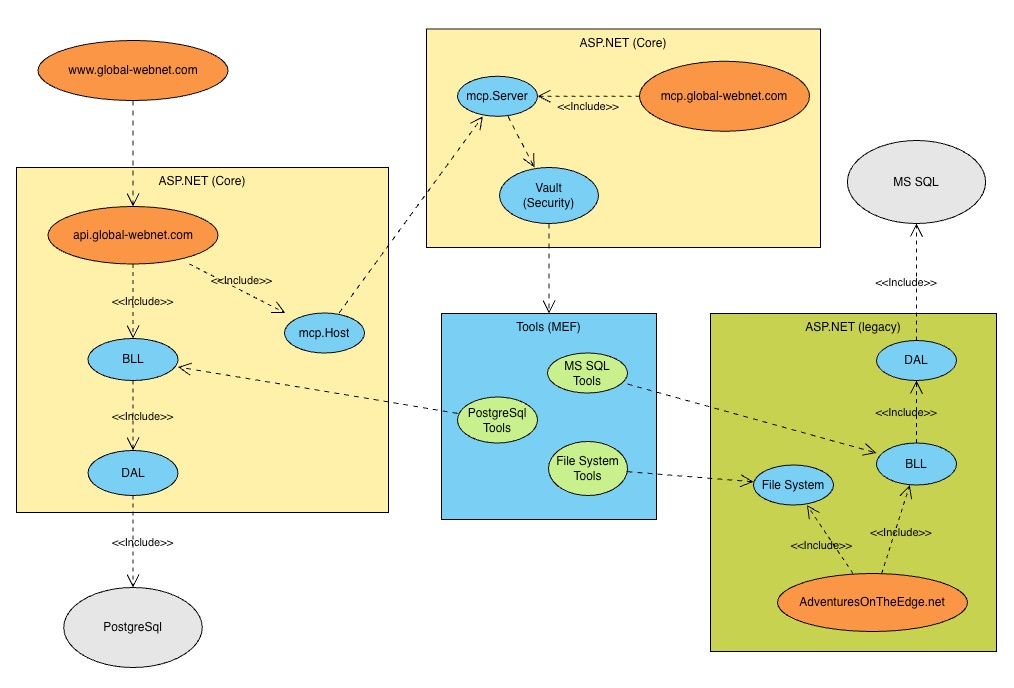
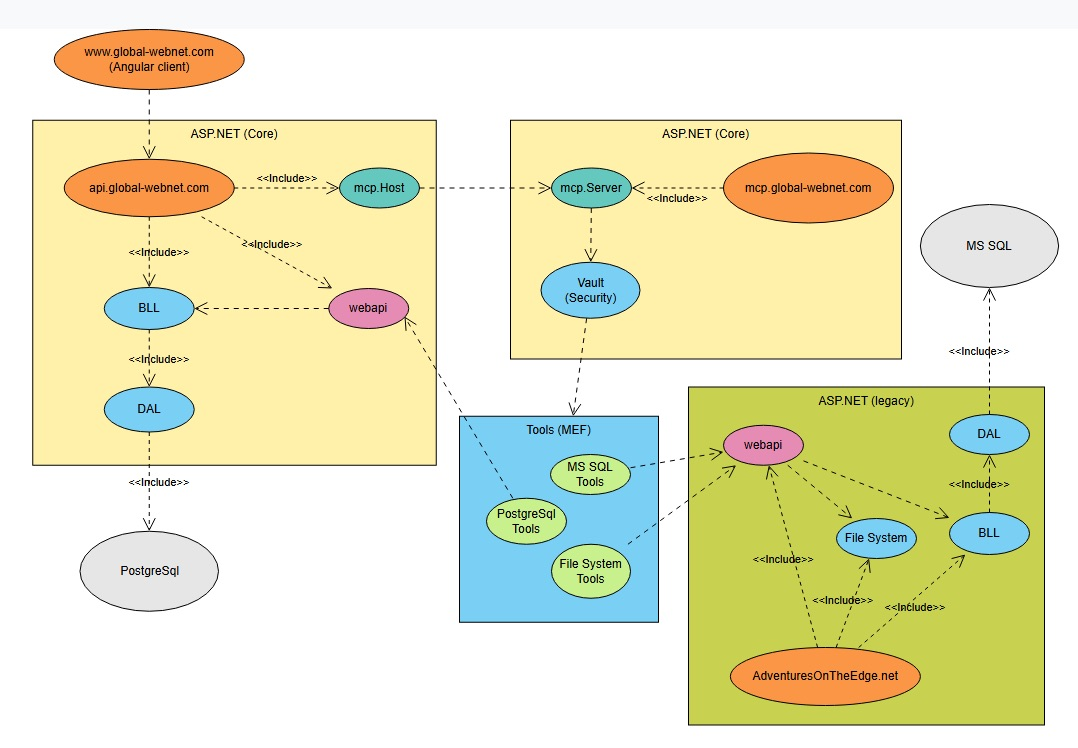
README.md file update with current and future vision.

diff --git a/test/AiBlogResearch.WebApi.Tests/Controllers/AuthControllerTests.cs b/test/AiBlogResearch.WebApi.Tests/Controllers/AuthControllerTests.cs
@@ -1,72 +1,70 @@
-using Adventures.Security;
+using Adventures.Identity;
 using AiBlogResearch.WebApi.Controllers;
 using Microsoft.AspNetCore.Mvc;
 using Microsoft.Extensions.Configuration;
-using Microsoft.Extensions.Options;
 using Xunit;
 
 namespace AiBlogResearch.WebApi.Tests.Controllers;
 
 public class AuthControllerTests
 {
-    private static IConfiguration BuildConfiguration(string? userName = "demo", string? password = "ChangeMe123!") =>
+    private static IConfiguration BuildConfiguration(string? tenant = "global-webnet.com") =>
         new ConfigurationBuilder()
             .AddInMemoryCollection(new Dictionary<string, string?>
             {
-                ["DemoUser:UserName"] = userName,
-                ["DemoUser:Password"] = password,
+                ["Auth:Tenant"] = tenant,
             })
             .Build();
 
-    private static IJwtTokenService BuildTokenService() =>
-        new JwtTokenService(Options.Create(new JwtTokenOptions
-        {
-            Issuer = "TestIssuer",
-            Audience = "TestAudience",
-            SigningKey = "0123456789abcdef0123456789abcdef",
-            AccessTokenLifetime = TimeSpan.FromMinutes(30),
-        }));
-
     [Fact]
-    public void Token_ReturnsOkWithAccessToken_WhenCredentialsAreValid()
+    public async Task Token_ReturnsOkWithAccessToken_WhenCredentialsAreValid()
     {
-        var controller = new AuthController(BuildTokenService(), BuildConfiguration());
+        var expiresAt = DateTimeOffset.UtcNow.AddMinutes(30);
+        var accountService = new FakeUserAccountService(LoginResult.Success("fake-token", expiresAt, mustChangePassword: true));
+        var controller = new AuthController(accountService, BuildConfiguration());
 
-        var result = controller.Token(new TokenRequest("demo", "ChangeMe123!"));
+        var result = await controller.Token(new TokenRequest("Admin", "Password"));
 
         var okResult = Assert.IsType<OkObjectResult>(result.Result);
         var tokenResponse = Assert.IsType<TokenResponse>(okResult.Value);
-        Assert.False(string.IsNullOrWhiteSpace(tokenResponse.AccessToken));
-        Assert.True(tokenResponse.ExpiresAtUtc > DateTimeOffset.UtcNow);
+        Assert.Equal("fake-token", tokenResponse.AccessToken);
+        Assert.Equal(expiresAt, tokenResponse.ExpiresAtUtc);
+        Assert.True(tokenResponse.MustChangePassword);
+        Assert.Equal("global-webnet.com", accountService.LastTenant);
+        Assert.Equal("Admin", accountService.LastUsername);
+        Assert.Equal("Password", accountService.LastPassword);
     }
 
     [Theory]
-    [InlineData("demo", "WrongPassword")]
-    [InlineData("wrong-user", "ChangeMe123!")]
+    [InlineData("wrong-user", "Password")]
+    [InlineData("Admin", "WrongPassword")]
     [InlineData("", "")]
-    public void Token_ReturnsUnauthorized_WhenCredentialsAreInvalid(string userName, string password)
+    public async Task Token_ReturnsUnauthorized_WhenCredentialsAreInvalid(string userName, string password)
     {
-        var controller = new AuthController(BuildTokenService(), BuildConfiguration());
+        var accountService = new FakeUserAccountService(LoginResult.Failure(LoginFailureReason.InvalidCredentials));
+        var controller = new AuthController(accountService, BuildConfiguration());
 
-        var result = controller.Token(new TokenRequest(userName, password));
+        var result = await controller.Token(new TokenRequest(userName, password));
 
         Assert.IsType<UnauthorizedResult>(result.Result);
     }
 
     [Fact]
-    public void Token_ReturnsUnauthorized_WhenDemoUserIsNotConfigured()
+    public async Task Token_UsesConfiguredTenant_DefaultingToGlobalWebnetWhenUnset()
     {
-        var controller = new AuthController(BuildTokenService(), BuildConfiguration(userName: null, password: null));
+        var accountService = new FakeUserAccountService(LoginResult.Failure(LoginFailureReason.InvalidCredentials));
+        var controller = new AuthController(accountService, BuildConfiguration(tenant: null));
 
-        var result = controller.Token(new TokenRequest("demo", "ChangeMe123!"));
+        await controller.Token(new TokenRequest("Admin", "Password"));
 
-        Assert.IsType<UnauthorizedResult>(result.Result);
+        Assert.Equal("global-webnet.com", accountService.LastTenant);
     }
 
     [Fact]
     public void WhoAmI_ReturnsUnknown_WhenNoAuthenticatedUserIsSet()
     {
-        var controller = new AuthController(BuildTokenService(), BuildConfiguration());
+        var accountService = new FakeUserAccountService(LoginResult.Failure(LoginFailureReason.InvalidCredentials));
+        var controller = new AuthController(accountService, BuildConfiguration());
         controller.ControllerContext = new ControllerContext
         {
             HttpContext = new Microsoft.AspNetCore.Http.DefaultHttpContext(),
@@ -76,5 +74,22 @@ public class AuthControllerTests
 
         var okResult = Assert.IsType<OkObjectResult>(result.Result);
         Assert.Equal("unknown", okResult.Value);
+    }
+
+    private sealed class FakeUserAccountService(LoginResult result) : IUserAccountService
+    {
+        public string? LastTenant { get; private set; }
+
+        public string? LastUsername { get; private set; }
+
+        public string? LastPassword { get; private set; }
+
+        public Task<LoginResult> LoginAsync(string tenant, string username, string password, CancellationToken cancellationToken = default)
+        {
+            LastTenant = tenant;
+            LastUsername = username;
+            LastPassword = password;
+            return Task.FromResult(result);
+        }
     }
 }

diff --git a/src/AiBlogResearch.WebApi/Controllers/AuthController.cs b/src/AiBlogResearch.WebApi/Controllers/AuthController.cs
@@ -1,5 +1,4 @@
-using System.Security.Claims;
-using Adventures.Security;
+using Adventures.Identity;
 using Microsoft.AspNetCore.Authorization;
 using Microsoft.AspNetCore.Mvc;
 
@@ -7,34 +6,36 @@ namespace AiBlogResearch.WebApi.Controllers;
 
 public sealed record TokenRequest(string UserName, string Password);
 
-public sealed record TokenResponse(string AccessToken, DateTimeOffset ExpiresAtUtc);
+public sealed record TokenResponse(string AccessToken, DateTimeOffset ExpiresAtUtc, bool MustChangePassword);
 
 /// <summary>
-/// Issues JWTs after validating credentials.
-/// NOTE: credential validation below is a placeholder (configuration-backed demo user) and must be
-/// replaced with a real user store (e.g. ASP.NET Identity, a database, etc.) before production use.
+/// Issues JWTs after validating credentials against the real user store (Adventures.Data +
+/// Adventures.Identity), replacing the config-seeded demo-user placeholder this controller used
+/// to have - see docs/SESSION_HANDOFF.md's "Adventures.Identity" entries for why that replacement
+/// was deliberately deferred until the underlying login path was verified end-to-end first.
 /// </summary>
 [ApiController]
 [Route("api/auth")]
-public sealed class AuthController(IJwtTokenService tokenService, IConfiguration configuration) : ControllerBase
+public sealed class AuthController(IUserAccountService accountService, IConfiguration configuration) : ControllerBase
 {
+    /// <summary>
+    /// Single-tenant today (see <c>Auth:Tenant</c> in configuration, defaulting to
+    /// "global-webnet.com") - <see cref="IUserAccountService.LoginAsync"/> is tenant-scoped for
+    /// when this app supports more than one, but nothing yet needs the client to supply it.
+    /// </summary>
+    private string Tenant => configuration["Auth:Tenant"] ?? "global-webnet.com";
+
     [HttpPost("token")]
     [AllowAnonymous]
-    public ActionResult<TokenResponse> Token([FromBody] TokenRequest request)
+    public async Task<ActionResult<TokenResponse>> Token([FromBody] TokenRequest request)
     {
-        var demoUserName = configuration["DemoUser:UserName"];
-        var demoPassword = configuration["DemoUser:Password"];
-
-        if (string.IsNullOrEmpty(demoUserName) || string.IsNullOrEmpty(demoPassword)
-            || request.UserName != demoUserName || request.Password != demoPassword)
+        var result = await accountService.LoginAsync(Tenant, request.UserName, request.Password);
+        if (!result.Succeeded)
         {
             return Unauthorized();
         }
 
-        var claims = new[] { new Claim(ClaimTypes.Name, request.UserName) };
-        var issued = tokenService.IssueToken(request.UserName, claims);
-
-        return Ok(new TokenResponse(issued.AccessToken, issued.ExpiresAtUtc));
+        return Ok(new TokenResponse(result.AccessToken!, result.ExpiresAtUtc!.Value, result.MustChangePassword));
     }
 
     /// <summary>Sample protected endpoint to prove JWT validation works end to end.</summary>

diff --git a/docs/SESSION_HANDOFF.md b/docs/SESSION_HANDOFF.md
@@ -4,6 +4,26 @@ Status as of 2026-09-19. Read this first in any new session before touching arch
 
 **Current branch: `main`** — the `rebuild/dotnet-angular-scaffold` branch was fast-forward-merged and pushed to `origin/main` on 2026-09-15. All work described below (scaffold, deployment, CI/CD, developer guide) is live on `main`.
 
+## RESOLVED (2026-09-21, Windows session): real login wired into `AuthController` — the last piece of the `Adventures.Identity` plan first raised 2026-09-19
+
+**Closes the item this doc has carried as "deliberately not wired into `AuthController` yet" since `Adventures.Identity` was published.** A real tenant-admin user (`Admin`/`Password`, `tenant = 'global-webnet.com'`, `must_change_password = true`, a real PBKDF2 hash — not the placeholder string in `seed-tenant-admin.sql`) now exists in the dev Postgres database, and `AuthController.Token` calls `IUserAccountService.LoginAsync` instead of comparing against `DemoUser:UserName`/`DemoUser:Password` config values. Verified for real against the live dev database (not just unit tests): correct credentials return a genuine signed JWT, wrong password/unknown username both `401`, `/api/auth/whoami` resolves the real username from the token. 109/109 tests passing across the solution. Full detail, including the login sequence diagram, is in [docs/artifacts/2026-09-21-real-login-wired.md](artifacts/2026-09-21-real-login-wired.md) — this entry intentionally doesn't repeat it.
+
+**Explicitly not done:** no forced-password-change flow exists yet, so `MustChangePassword` (now surfaced in the token response) isn't acted on anywhere. `DemoUser:*` user-secrets are unused now but still present locally — harmless, worth deleting next time that file is open.
+
+## Discussion, deliberately parked (2026-09-21, Windows session): BlogEngine.NET/`BlogAI` migration and interim authoring — not scheduled, roughly two years out per the user's own estimate
+
+**This is a captured discussion, not a spec — don't build against it without a fresh conversation first, and don't spend more design time on it until there's an actual near-term trigger (ai-research-blog approaching feature-parity with BlogEngine.NET's own admin, or a concrete need).** Recorded so it doesn't have to be re-derived or re-asked, per this doc's whole reason for existing.
+
+**Two separate things with two different lifecycles, not one tool:**
+1. **An interim live-authoring tool against the user's own `BlogAI`** (create/edit/read against the still-live `AdventuresOnTheEdge.net`, through a new, minimal HTTP endpoint added to `BlogAI` itself — not raw SQL Server access from this codebase, and not an in-process reference to `BlogAI`'s BLL, which would pull in its entire legacy dependency tree). Needed because the user's actual blog stays on `BlogAI` while ai-research-blog matures — this is explicitly temporary and gets removed (or its MEF DLL pulled) once ai-research-blog is past beta.
+2. **A one-way migration feature, shipped as a permanent part of the released product**, for any BlogEngine.NET installation to move to ai-research-blog. Explicitly the last thing built, roughly two years out — not scheduled, not designed beyond the shape below.
+
+**Confirmed: `BlogAI` (the user's fork) uses the standard/core BlogEngine.NET database schema.** Its only deviation is a custom "GwnWiki" extension (see `BlogAI/BlogEngine/BlogEngine.NET/setup/BillKrat-Upgrade.2018.12.30.sql`), which other installations won't have. This means a migration tool built against the *core* schema generalizes to other BlogEngine.NET installs — it doesn't need to special-case the user's own fork. BlogEngine.NET also has some config in XML files, not just SQL; migrating that too was floated as "adventurous... not sure the juice is worth the squeeze" — an explicit maybe-someday, not a commitment.
+
+**Naming convention agreed, for whenever this work starts:** name a Dal after what it actually talks to, not a generic label. The `nquad-end-to-end-poc`'s quad-store family should be renamed `NQuadDalBase<TEntity>`/`GenericNQuadDal<TEntity>`/`UserNQuadDal` (not yet done — see that POC's own `docs/artifacts/`). A legacy-facing Dal talking to `BlogAI`'s new endpoint is not a "MsSqlDal" — it never opens a `SqlConnection` itself, `BlogAI`'s own endpoint does that — so naming it `UserMsSqlDal` would be actively misleading; something like `UserBlogAiDal` was suggested, pending a real name once it's built. `ICrudlDal<TEntity>` (the interface, not `DalBase`/`GenericDal`) is the actual polymorphism boundary between backends — confirmed `User : DynamicEntity` should serve every backend uniformly (one shape, swappable Dal underneath) rather than a different entity class per storage technology, because a single stable shape is easier for both humans and AI-assisted tooling to target.
+
+**Explicitly not designed:** the real shape of the new `BlogAI` endpoint; whether a legacy-facing Dal ever needs its own generic base (probably not, until a second legacy-facing case exists — same discipline that meant `GenericDal` itself only got extracted once two real cases justified it); and a completeness checklist for "full-featured migration" (posts/categories are the obvious floor; comments, multi-author support, tags, media, and URL/SEO structure are all real candidates BlogEngine.NET users would expect, none of it scoped yet).
+
 ## Architecture direction (2026-09-20, Windows session): reconciling the `nquad-end-to-end-poc` vision with the JSONB Hybrid + N-Quads decision — Option B synthesis, schema-driven security metadata, and point-in-time reproducibility
 
 **This entire entry is a mutually agreed direction reached through a genuine, extended brainstorming session — not a mandate and not set in stone.** In the user's own words (paraphrased): landing on a logical result here doesn't mean it's permanent; treating it as immutable would lock the project out of new and emerging architectural patterns, new product needs, and the user's and Claude's own later ideas. This is the path moving forward **until a comparably rigorous brainstorming session revisits it** — not "whoever's annoyed with it this week can just change it," but also not gospel. A future session disagreeing with something below should re-derive it through the same kind of reasoning recorded here, not silently override it and not treat it as untouchable either.

diff --git a/docs/artifacts/2026-09-21-real-login-wired.md b/docs/artifacts/2026-09-21-real-login-wired.md
@@ -1,0 +1,54 @@
+# Stage: replacing the demo-user login placeholder with real `Adventures.Identity` login
+
+**Date:** 2026-09-21
+**Closes:** the "Adventures.Identity" step 4 item open since `SESSION_HANDOFF.md`'s 2026-09-19 entries ("deliberately not wired into `AuthController` yet").
+**Tests:** 109/109 passing across the solution (24 Adventures.Data + 22 Adventures.Identity + 51 Adventures.Security + 12 AiBlogResearch.WebApi). Verified against the real dev Postgres, not just unit tests with a fake.
+
+## What this stage was about
+
+`AuthController` has been checking a config-seeded `DemoUser:UserName`/`DemoUser:Password` pair since the security foundation was first deployed — a placeholder, by design, until the real login path (`Adventures.Data` + `Adventures.Identity`, JSONB Hybrid + N-Quads over Postgres) was verified end-to-end. That verification happened on 2026-09-19 via a throwaway console app, but `AuthController` itself was deliberately left untouched until now. This stage finishes that: a real tenant-admin user now exists in the dev database, and `AuthController` calls `IUserAccountService.LoginAsync` instead of comparing against config values.
+
+## What changed
+
+```mermaid
+sequenceDiagram
+    participant UI as Angular (auth.service.ts)
+    participant Auth as AuthController
+    participant Svc as IUserAccountService
+    participant Ent as IEntityRepository
+    participant Cred as IUserCredentialStore
+    participant Hash as IPasswordHasher
+    participant Jwt as IJwtTokenService
+    participant PG as Postgres (entities / user_credentials)
+
+    UI->>Auth: POST /api/auth/token {userName, password}
+    Auth->>Svc: LoginAsync(tenant, userName, password)
+    Svc->>Ent: FindByStandardFieldAsync(tenant, "user", "username", userName)
+    Ent->>PG: SELECT ... WHERE standard_fields->>'username' = ...
+    PG-->>Ent: entity row
+    Svc->>Cred: GetAsync(entity.Id)
+    Cred->>PG: SELECT ... FROM user_credentials
+    PG-->>Cred: password_hash, lockout state
+    Svc->>Hash: Verify(password, credential.PasswordHash)
+    Hash-->>Svc: true/false
+    Svc->>Cred: RecordSuccessfulLoginAsync / RecordFailedLoginAsync
+    Svc->>Jwt: IssueToken(entity.Id, [Name, roles])
+    Jwt-->>Svc: signed JWT
+    Svc-->>Auth: LoginResult(Succeeded, AccessToken, MustChangePassword)
+    Auth-->>UI: 200 {accessToken, expiresAtUtc, mustChangePassword} or 401
+```
+
+**A real tenant-admin user now exists in the dev database** (`pg8001.site4now.net`/`db_a2cb58_aiblogdv`) — `entities` row (`entity_type = 'user'`, `tenant = 'global-webnet.com'`, `org = 'default'`, `username = 'Admin'`, `roles = ['TenantAdmin']`) plus a `user_credentials` row with a real PBKDF2-HMAC-SHA256 hash of `Password` (210,000 iterations, random salt — via `Adventures.Security.PasswordHasher`, not a placeholder string). `must_change_password = true`, same as `seed-tenant-admin.sql`'s own documented convention, so this isn't a standing weak credential. Seeded and verified via a throwaway console app (`Microsoft.Extensions.Configuration.UserSecrets` reading the same `ConnectionStrings:Postgres`/`Jwt:SigningKey` the real WebApi uses, against the actual published `Adventures.Data`/`Identity`/`Security` 0.2.2/0.1.0/0.1.0 NuGet packages, not source references) — never committed, same pattern as every prior verification in this doc's history.
+
+**`AuthController`** ([Controllers/AuthController.cs](../../src/AiBlogResearch.WebApi/Controllers/AuthController.cs)) now takes `IUserAccountService` instead of `IJwtTokenService` directly, and `Token(...)` is `async`, calling `LoginAsync(Tenant, request.UserName, request.Password)`. `Tenant` comes from `Auth:Tenant` config, defaulting to `"global-webnet.com"` — this app is single-tenant today, so nothing in the Angular client needed to change to send a tenant. `TokenResponse` gained `MustChangePassword`, surfaced from `LoginResult` — nothing consumes it yet (no forced-change UI exists), but it's no longer silently dropped at the controller boundary.
+
+**Verified for real, not just against a fake:** ran the WebApi locally against the live dev Postgres — correct credentials return a real JWT (`sub` = the entity's UUID, `roles` claim = `TenantAdmin`), wrong password and unknown username both return `401`, `/api/auth/whoami` correctly resolves `"Admin"` from the token, and no-token requests to it still `401`. `/api/health` re-checked afterward to confirm nothing else regressed.
+
+**Test double, not a mock:** `AuthControllerTests.cs` was rewritten around a hand-rolled `FakeUserAccountService : IUserAccountService`, matching this codebase's established convention (no mocking library referenced anywhere in this solution).
+
+## Explicitly not touched this stage
+
+- No forced-password-change flow exists yet — `MustChangePassword` reaches the client now but nothing acts on it. The seeded `Admin`/`Password` account will happily keep logging in with that password indefinitely until one is built.
+- `DemoUser:UserName`/`DemoUser:Password` are still sitting in local user-secrets, unused by any code now — harmless, but worth removing next time that file is opened.
+- None of the POC's `GenericDal`/`GenericBll`/schema-metadata work (encryption, permission filtering, version-tagged Bll resolution) touched this path — this stage deliberately used the existing, already-decided `Adventures.Data`/`Identity` stack as-is, not a retrofit of the newer POC pattern. Different track, different timeline.
+- Multi-tenant login (a client actually supplying which tenant) isn't wired — `Auth:Tenant` is a server-side config default, not a request field, since nothing needs more than one tenant yet.

diff --git a/README.md b/README.md
@@ -1,11 +1,36 @@
 # ai-research-blog
 
-Angular + ASP.NET Core (MCP Host) + Aspire. See [docs/SESSION_HANDOFF.md](docs/SESSION_HANDOFF.md)
-for the full architecture, decisions, and current status before touching anything here.
+AI Research Blog is an early-stage, open-source replacement for
+[AdventuresOnTheEdge.net](https://AdventuresOnTheEdge.net), currently powered by a legacy private
+[BlogEngine.NET fork](https://github.com/BillKrat/BlogAI). It is being built as an Angular and
+ASP.NET Core application, with Aspire providing the local development composition.
 
-All components deployed to a [SmarterASP plan](https://www.smarterasp.net/index?r=100827593) ($38/qtr) via GitHub actions.  Currently [www.global-webnet.com](https://www.global-webnet.com)
-with an Angular client [not shown below] and its [https://api.global-webnet.com](https://api.global-webnet.com/api/health) are deployed.
-[AdventuresOnTheEdge.net](https://AdventuresOnTheEdge.net) is the legacy [BlogEngine.net fork](https://github.com/BillKrat/ai-research-blog) that will be replaced with ai-research-blog open source project.
+## Current State
+
+The foundation is running today: an Angular client is deployed at
+[www.global-webnet.com](https://www.global-webnet.com), backed by the ASP.NET Core API at
+[api.global-webnet.com](https://api.global-webnet.com/api/health). The application includes
+health monitoring, JWT-based user authentication, and machine-to-machine client-credentials
+support. Reusable identity, security, and PostgreSQL data-access capabilities live in the
+separate `Adventures.Foundation` packages.
+
+## Vision
+
+The API will evolve into an MCP Host that coordinates AI-assisted research and authoring. It will
+call a separate, consolidated MCP Server over scoped machine-to-machine authentication. That
+server will load independently developed tool modules -- such as PostgreSQL, SQL Server, and file
+search -- so each tool retains control of its own data access and credentials.
+
+### Security Across MCP Components
+
+The MCP Host and Server will trust each other through short-lived, scoped machine-to-machine
+tokens. The Host authenticates as its own client identity, requests only the scopes required for a
+tool operation, and sends the resulting bearer token to the MCP Server. The server validates the
+token and scope before invoking a tool; database, file-system, and other sensitive credentials
+remain within the tool server and are never passed through the Host or exposed to the client.
+
+Over time, the product will provide a modern research and blogging experience, while the related
+BlogAI vision explores reviewable, searchable development narratives for AI-assisted code changes.
 
 ![](assets/20260920_175710_solution-uml.jpg)
 
